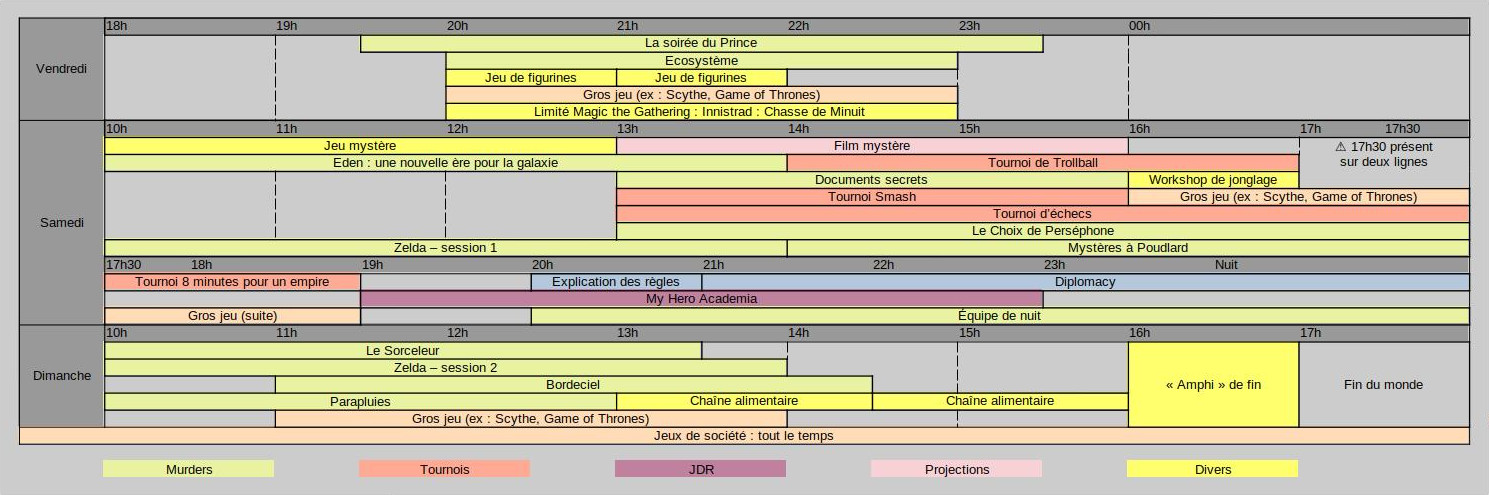
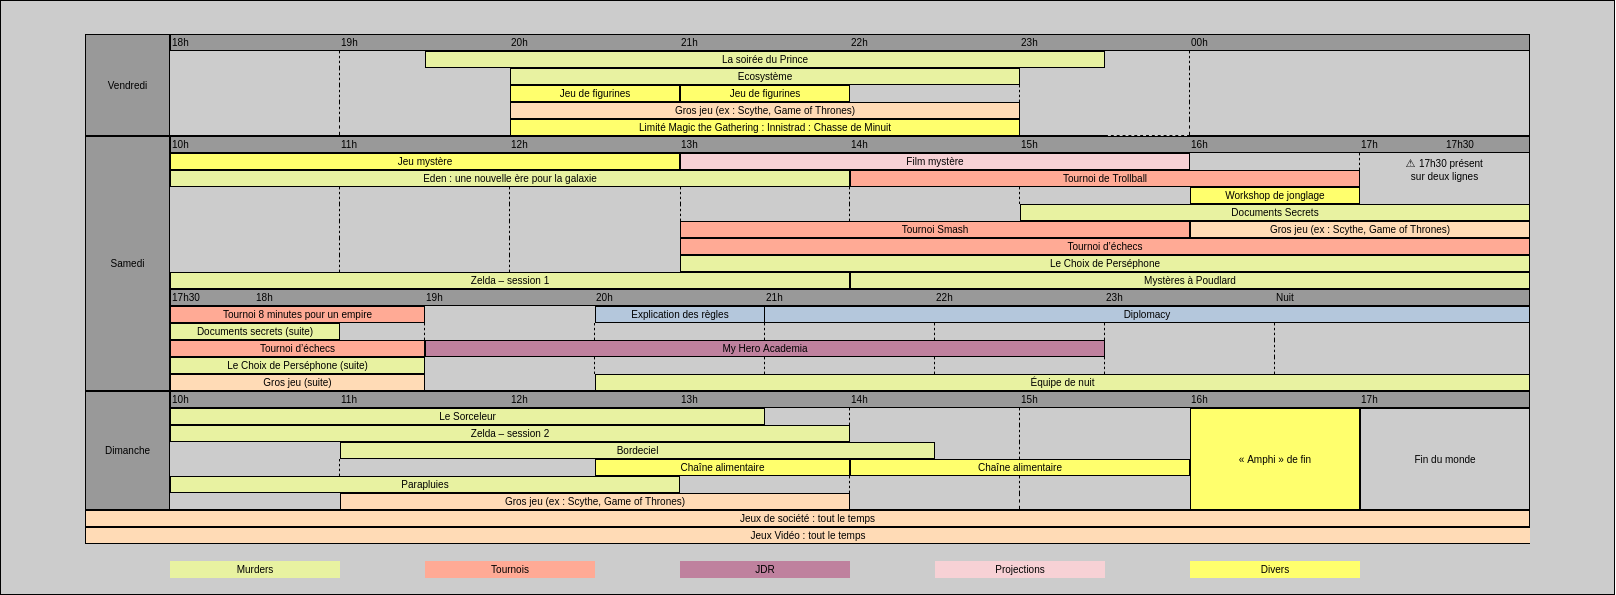
Add salle et small change to planning

diff --git a/content/_index.md b/content/_index.md
@@ -12,6 +12,8 @@ de films, des jeux d'ambiances, des jeux videos, des murders …
 
 ## Planning
 {{< figure src="/images/PlanningKWEI.jpg" title="Planning du K-WEI" >}}
+Et le planning des salles, l'accueil se fera dans la Kfet et ensuite les salle de l'ENS seront au 1ier étage du batiment EST (au dessus de la Kfet). Elles sont accessible par le même escalier que l'accès à la Med
+{{< figure src="/images/SalleKWEI.jpg" title="Salles du K-WEI" >}}
 
 ## Inscription
 
@@ -38,7 +40,7 @@ et de la soirée pour trouver des parties.
   - [La soirée du Prince](murders/prince), le vendredi de 19h30 jusqu'à 23h30
   - [L'Ecosystème](murders/ecosysteme), le vendredi de 20h jusqu'à 23h
   - [Eden : une nouvelle ère pour la galaxie](murders/eden), le samedi de 10h jusqu'à 14h
-  - [Documents Secrets](murders/documents-secrets), le samedi de 13h jusqu'à 16h
+  - [Documents Secrets](murders/documents-secrets), le samedi de 15h jusqu'à 18h
   - [Le Choix de Perséphone](murders/choix-de-persephone), le samedi de 13h jusqu'à 19h
   - [Mystères à Poudlard](murders/poudlard), le samedi de 14h jusqu'à 18h
   - [Zelda](murders/zelda), le samedi et dimanche de 10h jusqu'à 14h
@@ -48,7 +50,7 @@ et de la soirée pour trouver des parties.
   - [Parapluies](murders/parapluies), le dimanche de 10h jusqu'à 13h
 
 ## Jeux d'ambiance
-  - [Chaîne alimentaire](ambiance/chaine-alimentaire), le dimanche de 13h jusqu'à 14h30 et de 14h30 jusqu'à 16h
+  - [Chaîne alimentaire](ambiance/chaine-alimentaire), le dimanche de 12h30 jusqu'à 14h et de 14h jusqu'à 16h
   - [Diplomacy](ambiance/diplomacy), le samedi de 20h jusqu'à tard
   - [Gros jeux de société](ambiance/gros-jeux), le vendredi de 20h jusqu'à 23h, le samedi de 16h jusqu'à 19h et le dimanche de 11h jusqu'à 14h 
 

diff --git a/content/murders.md b/content/murders.md
@@ -9,7 +9,7 @@ menu:
   - [La soirée du Prince](prince), le vendredi de 19h30 jusqu'à 23h30
   - [L'Ecosystème](ecosysteme), le vendredi de 20h jusqu'à 23h
   - [Eden : une nouvelle ère pour la galaxie](eden), le samedi de 10h jusqu'à 14h
-  - [Documents Secrets](documents-secrets), le samedi de 13h jusqu'à 16h
+  - [Documents Secrets](documents-secrets), le samedi de 15h jusqu'à 18h
   - [Le Choix de Perséphone](choix-de-persephone), le samedi de 13h jusqu'à 19h
   - [Mystères de Poudlard](poudlard), le samedi de 14h jusqu'à 18h
   - [Zelda](zelda),le samedi et dimanche de 10h jusqu'à 14h

diff --git a/content/ambiance.md b/content/ambiance.md
@@ -6,7 +6,7 @@ menu:
 ---
 
 # Jeux d'ambiance
-  - [Chaîne alimentaire](chaine-alimentaire), le dimanche de 10h30 jusqu'à 12h
+  - [Chaîne alimentaire](chaine-alimentaire), le dimanche de 12h30 jusqu'à 14h et de 14h jusqu'à 16h
   - [Diplomacy](diplomacy), le samedi de 20h jusqu'à tard.
   - [Gros jeux de société](gros-jeux), le vendredi de 20h jusqu'à 23h, le samedi de 16h jusqu'à 19h et le dimanche de 11h jusqu'à 14h
 

diff --git a/content/ambiance/chaine-alimentaire.md b/content/ambiance/chaine-alimentaire.md
@@ -1,7 +1,7 @@
 # Chaîne alimentaire
 
 ## Quand ?
-**Date : Le dimanche à 13h et 14h30**
+**Date : Le dimanche à 12h30 et 14h**
 **Durée  : 1h30**
 
 ## Description

diff --git a/content/murders/documents-secrets.md b/content/murders/documents-secrets.md
@@ -1,7 +1,7 @@
 # Documents Secrets
 
 ## Quand ?
-**Date : Le samedi à 13h**
+**Date : Le samedi à 15h**
 **Durée  : 3h**
 
 ## Description
